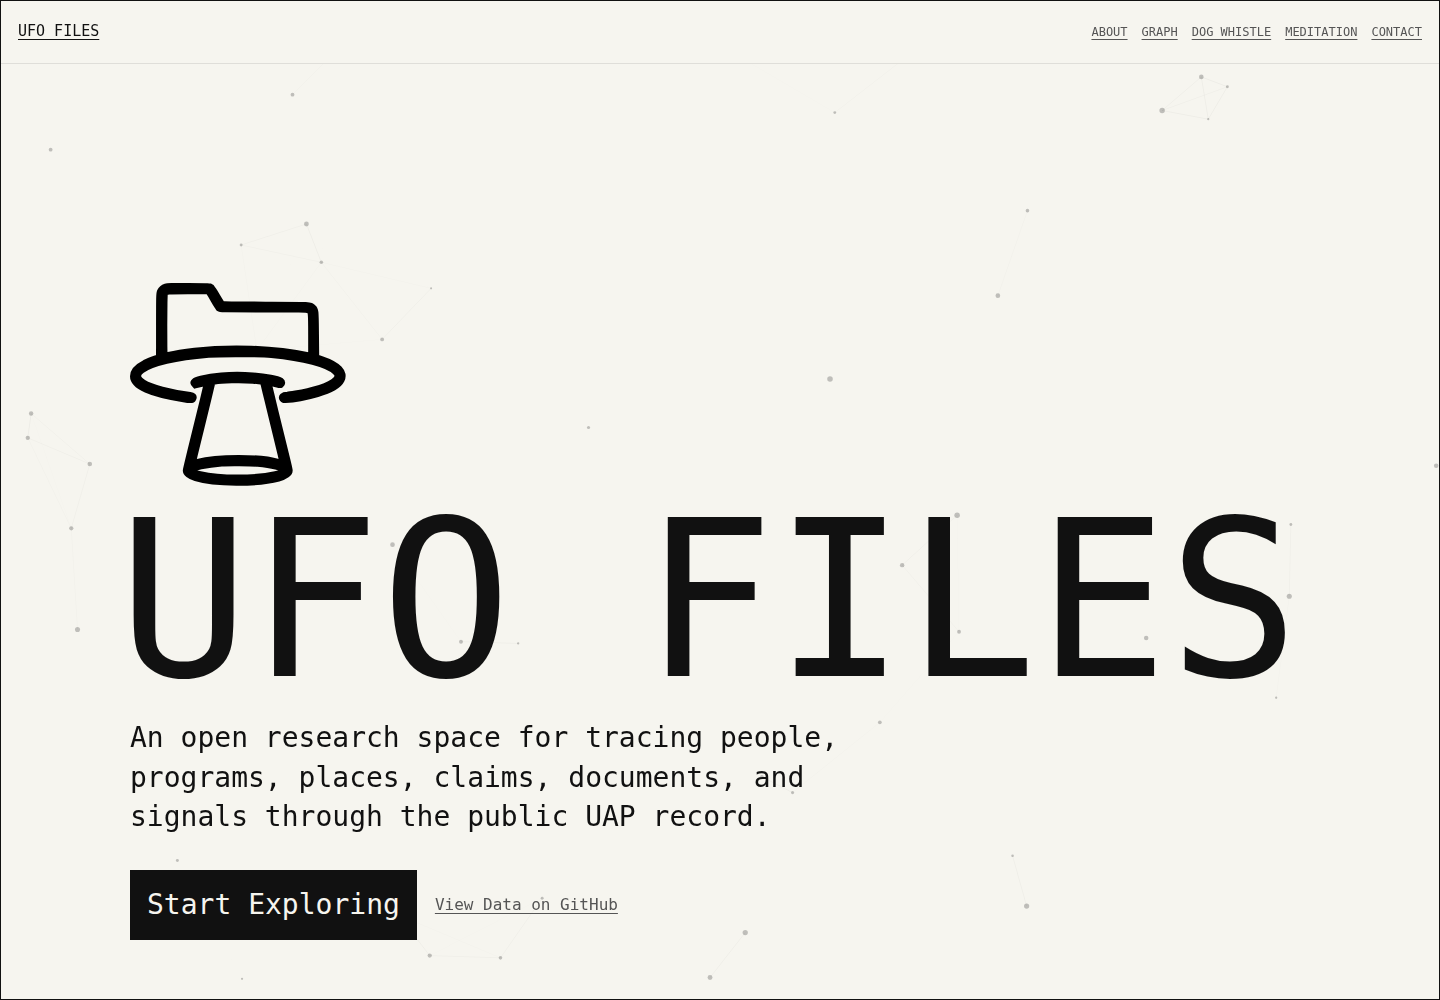
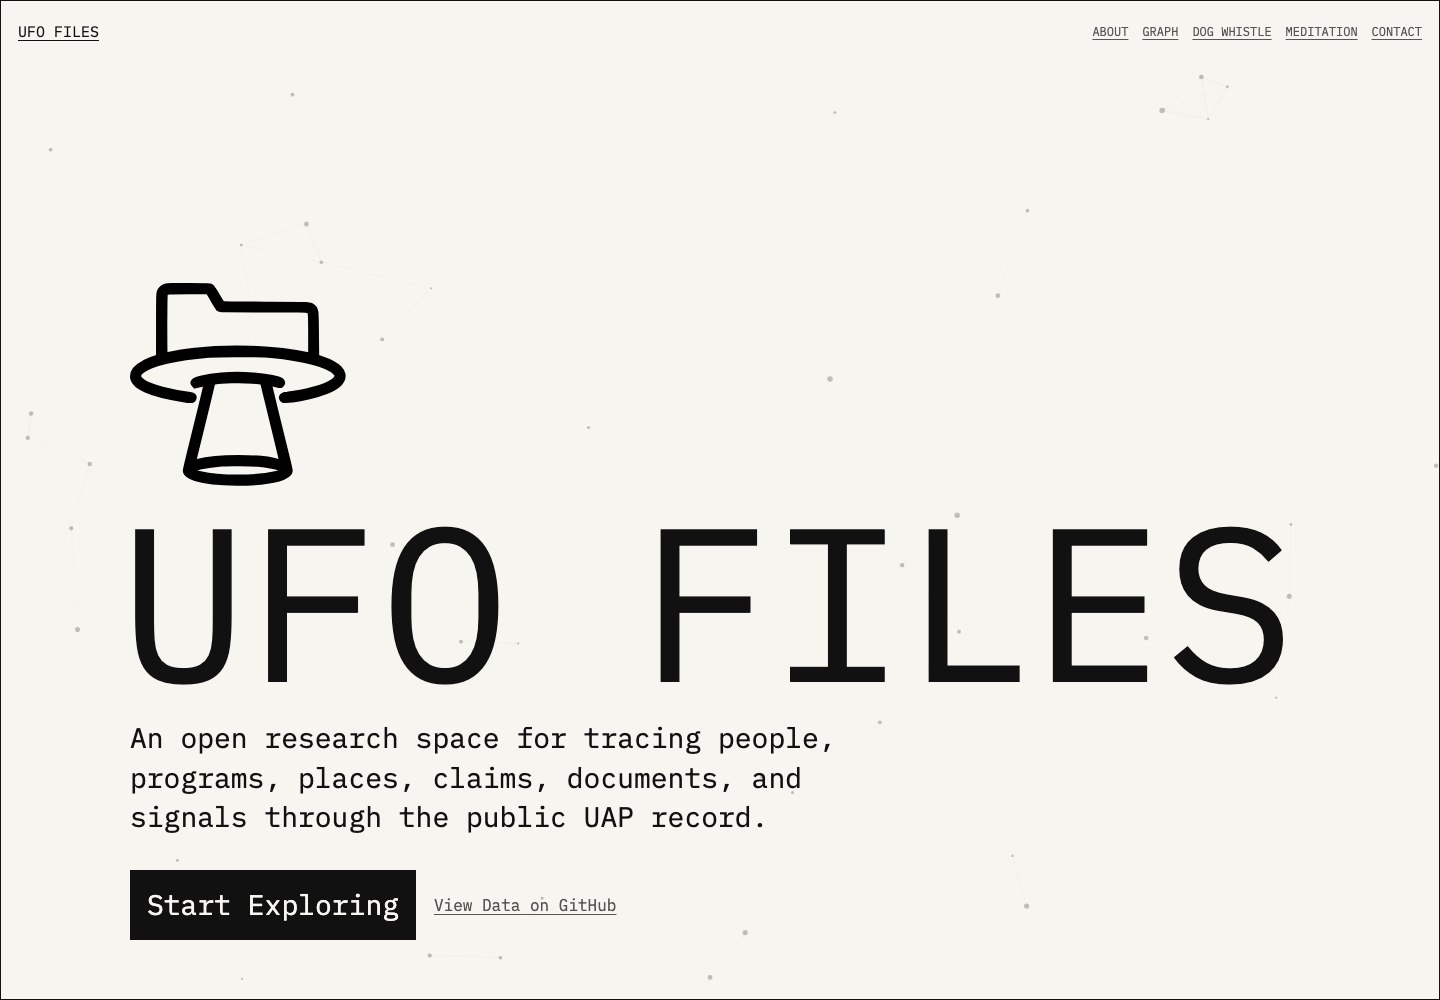
Remove homepage header divider

diff --git a/index.html b/index.html
@@ -5,7 +5,7 @@
   <meta name="viewport" content="width=device-width, initial-scale=1">
   <title>UFO Files</title>
   <meta name="description" content="UFO Files is an open research system for exploring documents, transcripts, signals, patterns, and practices around UAP disclosure.">
-  <link rel="stylesheet" href="styles.css?v=394c385e53ea66fb">
+  <link rel="stylesheet" href="styles.css?v=2d50e6cda40f0d9e">
 </head>
 <body>
   <canvas id="field" aria-hidden="true"></canvas>

diff --git a/styles.css b/styles.css
@@ -54,7 +54,6 @@ img {
   align-items: center;
   min-height: 64px;
   padding: 14px 18px;
-  border-bottom: 1px solid rgba(17, 17, 17, .1);
   background: rgba(246, 245, 239, .88);
   backdrop-filter: blur(14px);
   -webkit-backdrop-filter: blur(14px);